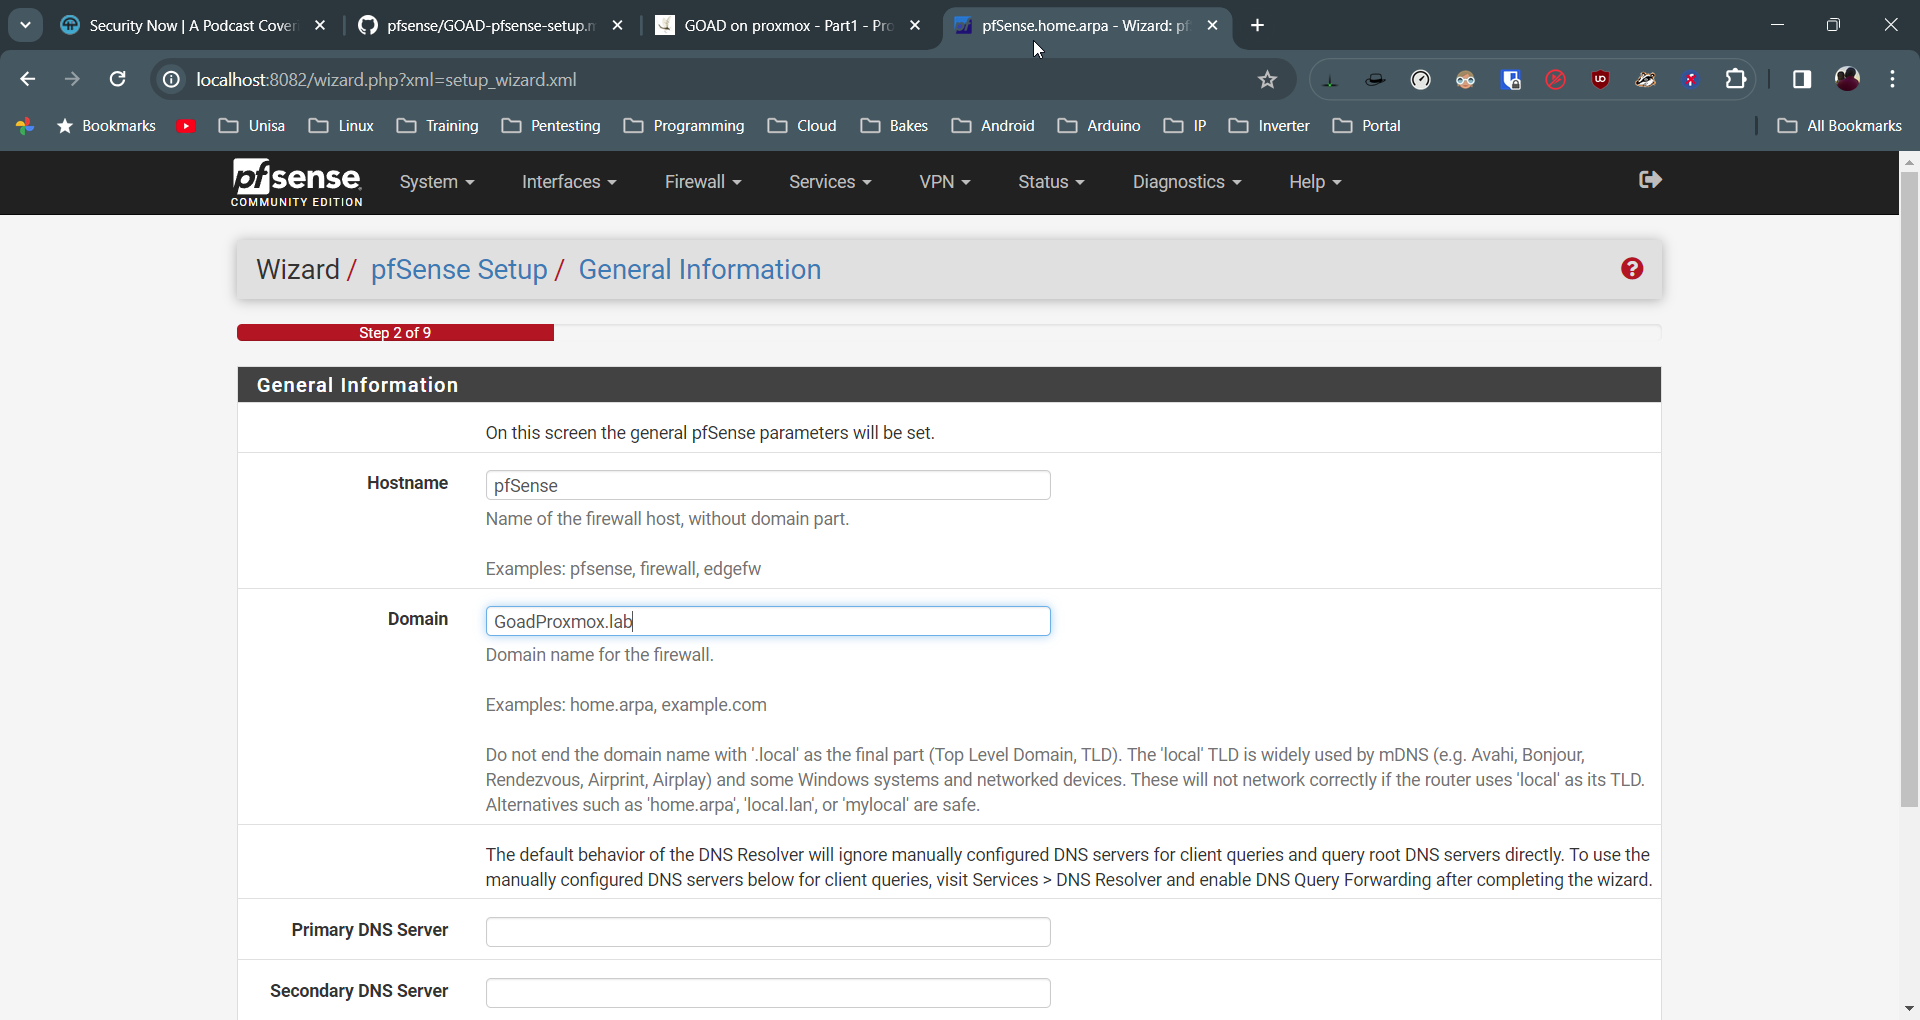
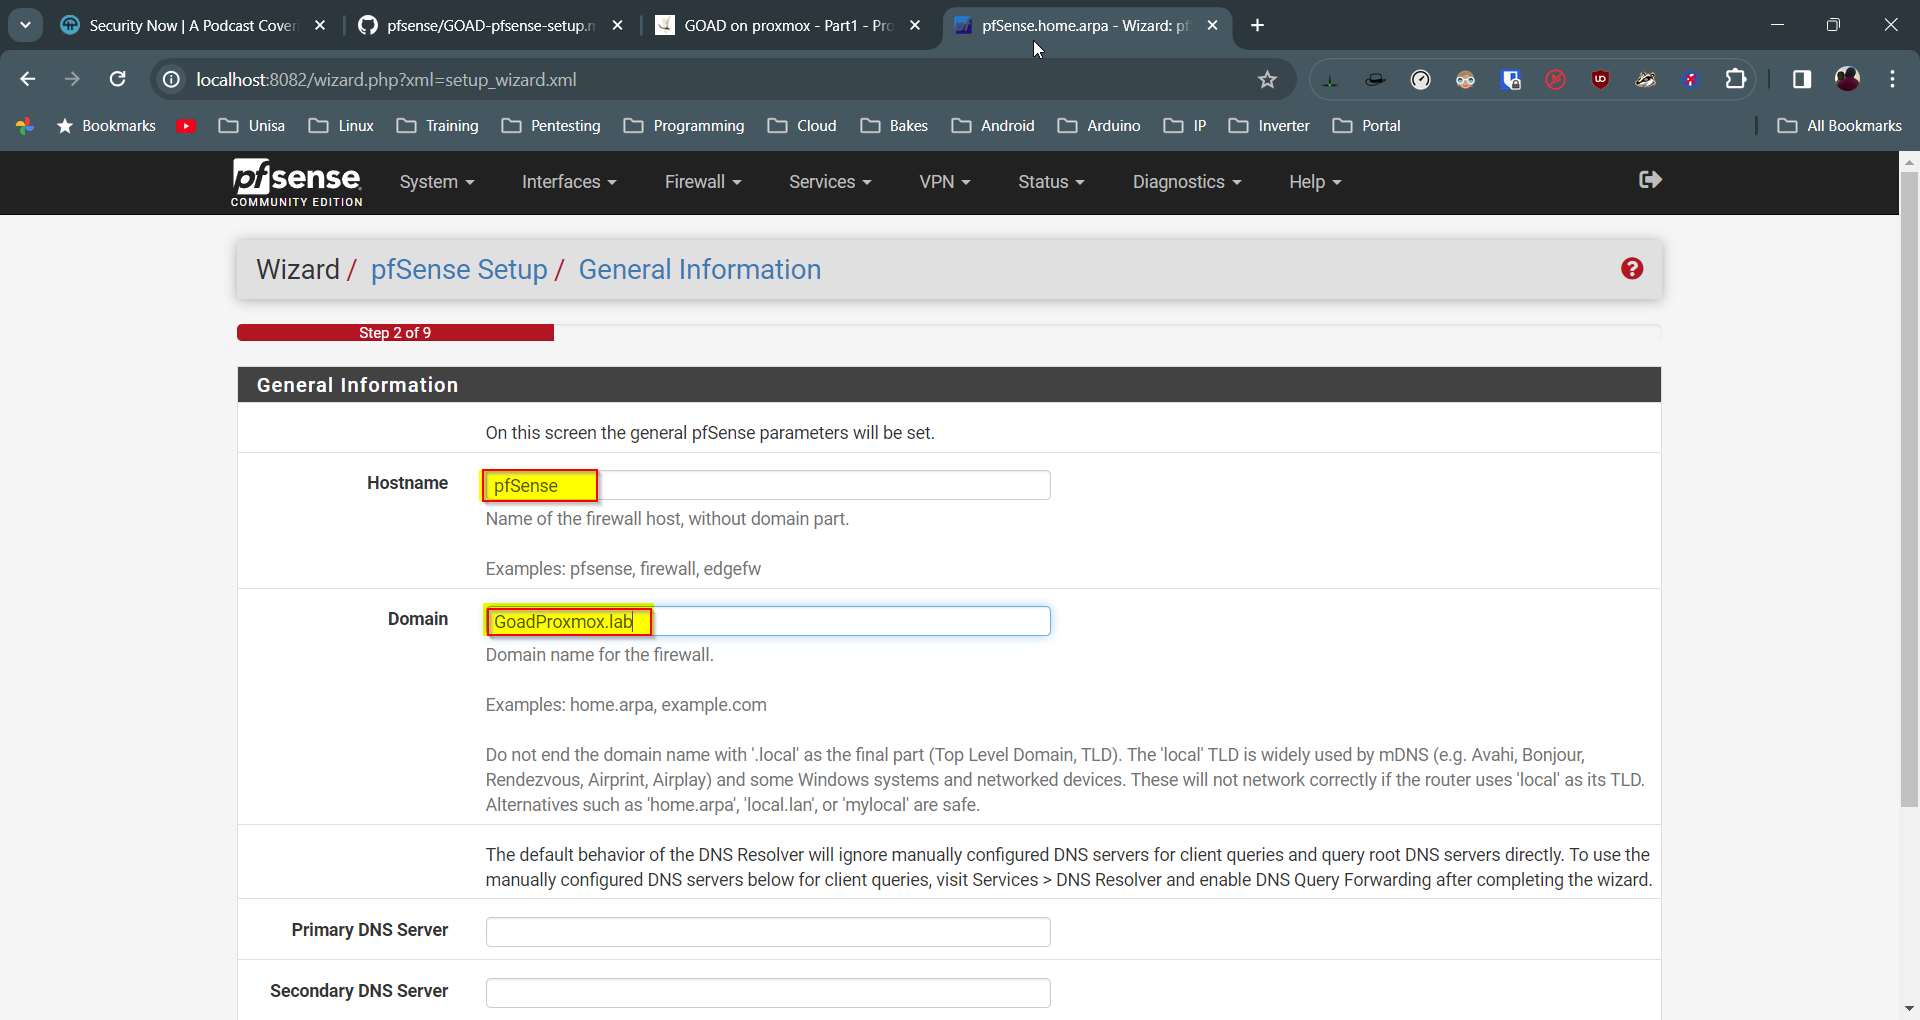
updating step 2 image

Changed region(s): [[0.25, 0.5775, 0.3438, 0.6382], [0.25, 0.4559, 0.3125, 0.5167]]

diff --git a/GOAD-pfsense-setup.md b/GOAD-pfsense-setup.md
@@ -221,5 +221,11 @@ This allows us to connect to the pfSense admin interface through http://localhos
 The default creds are 
 `username : admin`
 `password : pfsense`
+
+### 7.2 Configure pfSense
+
+i. *Define host name and domain*
 `
+<div align="center" ><img src='https://github.com/quincyntuli/pfsense/raw/main/img/pFsense-configure-step-02.png'><br><ins>Define pfSense hostname and domain</ins></div>
+
 
